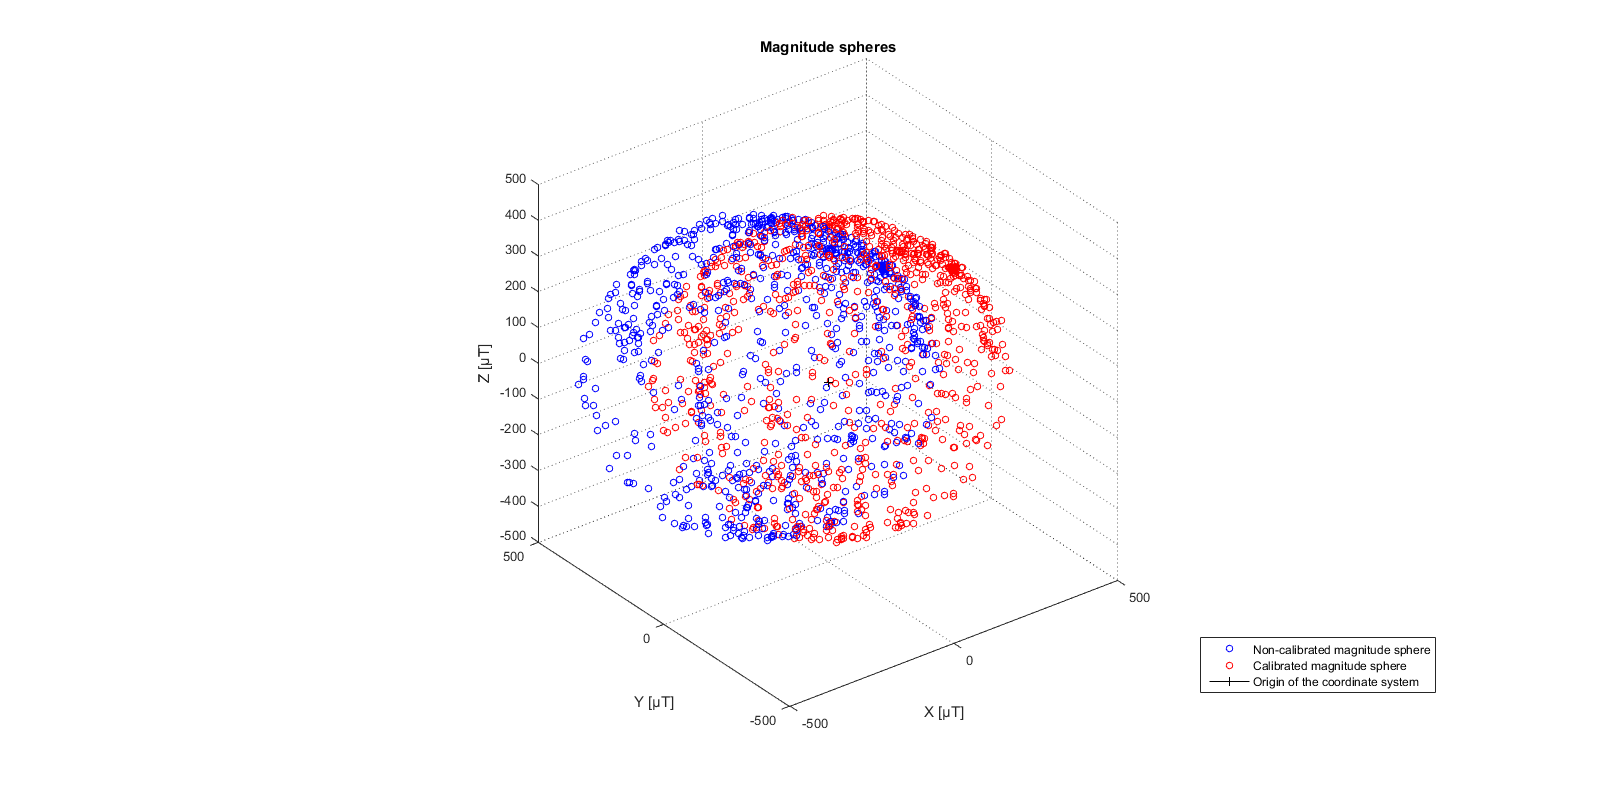
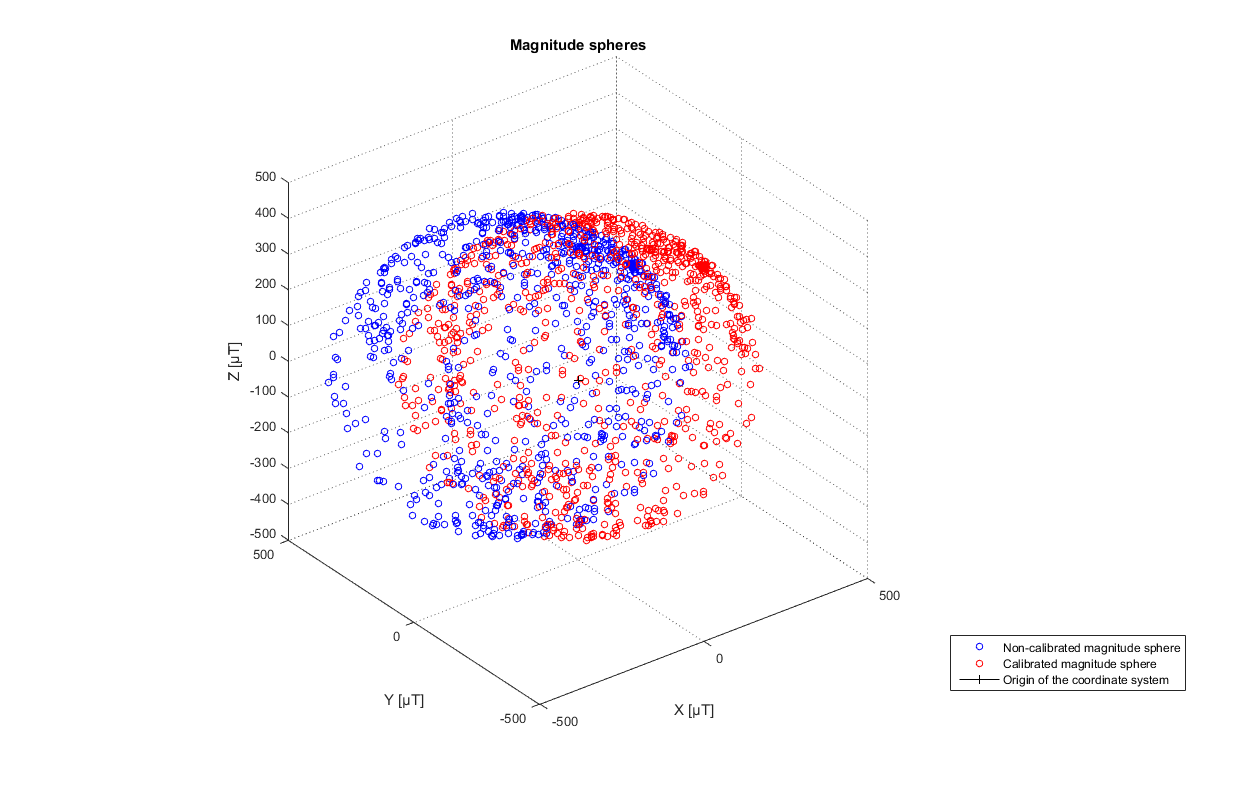
Moved forward with the magnetometer calibration

diff --git a/appendix/jMagnetoCalibration.tex b/appendix/jMagnetoCalibration.tex
@@ -11,7 +11,18 @@ The HMC5883L chip is a magnetometer which uses the Earth's magnetic field as a r
 %
 In this project the disturbances can be caused by all the metallic pieces on the vehicle, from the metal plate to the motor and to the wires. Thus, the calibration has to be performed with the all these components and the sensor placed on the vehicle at a fixed place and orientation. It is chosen to place it, so that its X axis points towards the front of the vehicle and the Z axis is pointed upwards. The chosen configuration shall not be changed after calibration.
 
-As stated in \secref{sec:magnetoSensor}, the magnetometer that is used gives out three space coordinates of the Earth's magnitude field relative to its own coordinate system. One good to test to see if the sensor is operational in its environment is to turn it all around itself while retrieving the data it gives. When properly calibrated and isolated from any new disturbance, the 3D scatter plot of all the measured points should give a sphere that has its center in the origin (coordinates (0,0,0)) of the plot. This means that the measured coordinates vary smoothly accordingly with the rotation of the sensor in space. Otherwise, the sphere could be distorted into an ellipsoid and displaced from the center and the sensor would have to be recalibrated correctly in a magnetic-still environment.\\
+As stated in \secref{sec:magnetoSensor}, the magnetometer that is used gives out three space coordinates of the Earth's magnitude field relative to its own coordinate system. One good to test to see if the sensor is operational in its environment is to turn it all around itself while retrieving the data it gives. When properly calibrated and isolated from any new disturbance, the 3D scatter plot of all the measured points should give a sphere that has its center in the origin (coordinates (0,0,0)) of the plot. This means that the measured coordinates vary smoothly accordingly with the rotation of the sensor in space. Otherwise, the sphere could be distorted into an ellipsoid and displaced from the center and the sensor would have to be recalibrated correctly in a magnetic-still environment, see example on \figref{fig:calibrationTestSpheres}.\\
+A simpler test is used here and consists in making four quarters of turn in the XY-plane (horizontally), around a static point. If each quarter corresponds to a measurement of \si{90^{\circ}} in the sensor's data and the resulting four quarters draw a circle, then the calibration should be fine to use.
+\begin{figure}[H]
+    \centering
+  %Trim margins @:   left        bottom       right       top
+  \adjustbox{ trim = {.1\width} {0.03\height} {0\width} {0.1\height}, clip }
+  {
+    \includegraphics[width=1.2\textwidth]{figures/spheresMagnitude.png}
+  }
+  \caption{Setup diagram}
+  \label{fig:calibrationTestSpheres}
+\end{figure}
 %
 The calibration itself performed in this test does not change the intrinsic sensor configuration but rather applies a transformation to the coordinates sent to the Arduino board. This transformation, seen in \eqref{eq:calibrationTransformation} is actually computed in the runtime by the microcontroller, each time a set of coordinate is received :
 \begin{flalign}
@@ -64,6 +75,7 @@ This software, runs on Microsoft Windows computers with the HMC5883L sensor conn
   \caption{Setup diagram}
   \label{fig:calibrationSetupDiagram}
 \end{figure}
+\todo{Change units to Gauss}
 
 \subsection{List of Equipment}
 
@@ -81,9 +93,21 @@ This software, runs on Microsoft Windows computers with the HMC5883L sensor conn
 \subsection{Procedure}
 
 \begin{enumerate}
-  \item Step 1
+  \item Set up the vehicle and the hardware so that the magnetometer is far from other non-constant magnetic objects (motor, PCB, wires) and with the X arrow pointing towards the front of the vehicle and the Z pointing upwards.
+  \item Attach everything, including the wires and serial USB cable, as it is, so that it cannot move. The configuration should stay the same as long as the magnetometer is used, otherwise, it has to be re-calibrated.
+  \item Put the vehicle in the environment in which the magnetometer has to operate.
+  \item Plug the sensor to the Arduino board and the Arduino to the computer via the USB serial cable.
+  \item Run the MagMaster software.
+  \item Select the right USB serial port.
+  \item Start the measurements by putting the vehicle in the position indicated by the software tutorial \cite{MagMaster}. Click on the associated measurement button.
+  \item While performing the test, make sure that no magnetic part is moving (especially the USB cable).
+  \item When all positions are measured thourgh the software, it is possible to unplug the serial connection with the Arduino.
+  \item Click on `Calculate Transformation Matrix and Bias'.
+  \item Write down the calculated coefficients for later reference and put them in the Arduino sensor code.
+  \item Test the sensor by using the four-quarters of turn method.
 \end{enumerate}
 
 %% Results %%
 \subsection{Results} \label{magnetoCalibrationResults}
+
 
